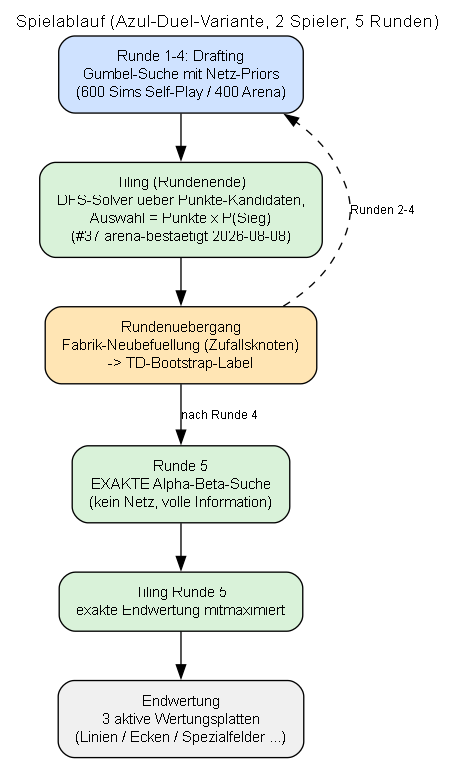
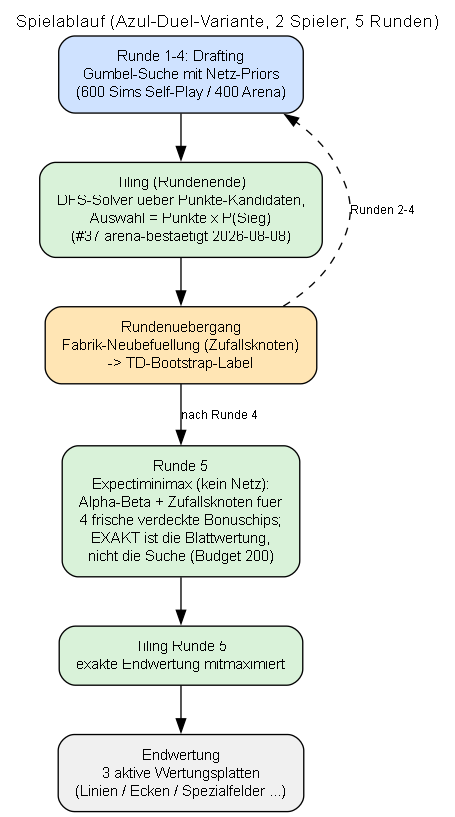
README/game_flow: widerlegte Runde-5-Behauptung korrigiert (Nutzer-Fund)
"Exakte Alpha-Beta-Suche, keine verdeckte Information" stand seit dem
10.08. widerlegt im round5.rs-Modulkopf (Expectiminimax, 4 frische
verdeckte Bonuschips, exakt ist die Blattwertung bei Budget 200 -- nicht
die Suche), aber README und game_flow-Diagramm trugen die alte Fassung
weiter; die heutige README-Ueberarbeitung hatte den Absatz ungeprueft
stehen lassen. Beide Stellen jetzt auf den Modulkopf-Stand; die
Trainings-Zufluesse (exact_round5_outcome im R4-Bootstrap, endgame_margin
= R5-Wurzelwert) am Code bestaetigt und beibehalten.

diff --git a/README.md b/README.md
@@ -78,10 +78,15 @@ measurements and the standing methodology rules:
   `MOSAIC_FLOOR_SHAPING_W`): exact leaf-value additive against
   floor-penalty spirals; re-validated in the WDL era (0.15/0.6 sweep: H0).
   Plate shaping and value shrinkage were disproved and stay off.
-- **Round 5**: exact alpha-beta search (`engine/src/round5.rs`) — no network
-  decisions once no hidden information remains. Its exact values also feed
-  training: the round-4 bootstrap uses `round5::exact_round5_outcome`, and
-  the optional `endgame_margin` head distils the round-5 root value.
+- **Round 5**: Expectiminimax (`engine/src/round5.rs`) — alpha-beta over
+  the decision nodes plus chance nodes where the four fresh, still-hidden
+  bonus chips get revealed (`MOSAIC_R5_CHANCE_NODES`, default on since
+  2026-08-10). No network decisions in round-5 drafting, but the round is
+  *not* full-information, and the search is *not* exact — exact is the
+  leaf evaluation (optimal tiling plus plate scoring under a fixed dome
+  grid; the node budget is 200). Its values feed training: the round-4
+  bootstrap uses `round5::exact_round5_outcome`, and the optional
+  `endgame_margin` head distils the round-5 root value.
 - **Runtime knobs**: every experimental lever is an `MOSAIC_*` environment
   variable whose default reproduces the previous behaviour bit-for-bit
   (verified by a hash probe before use). Currently all of them are inert
